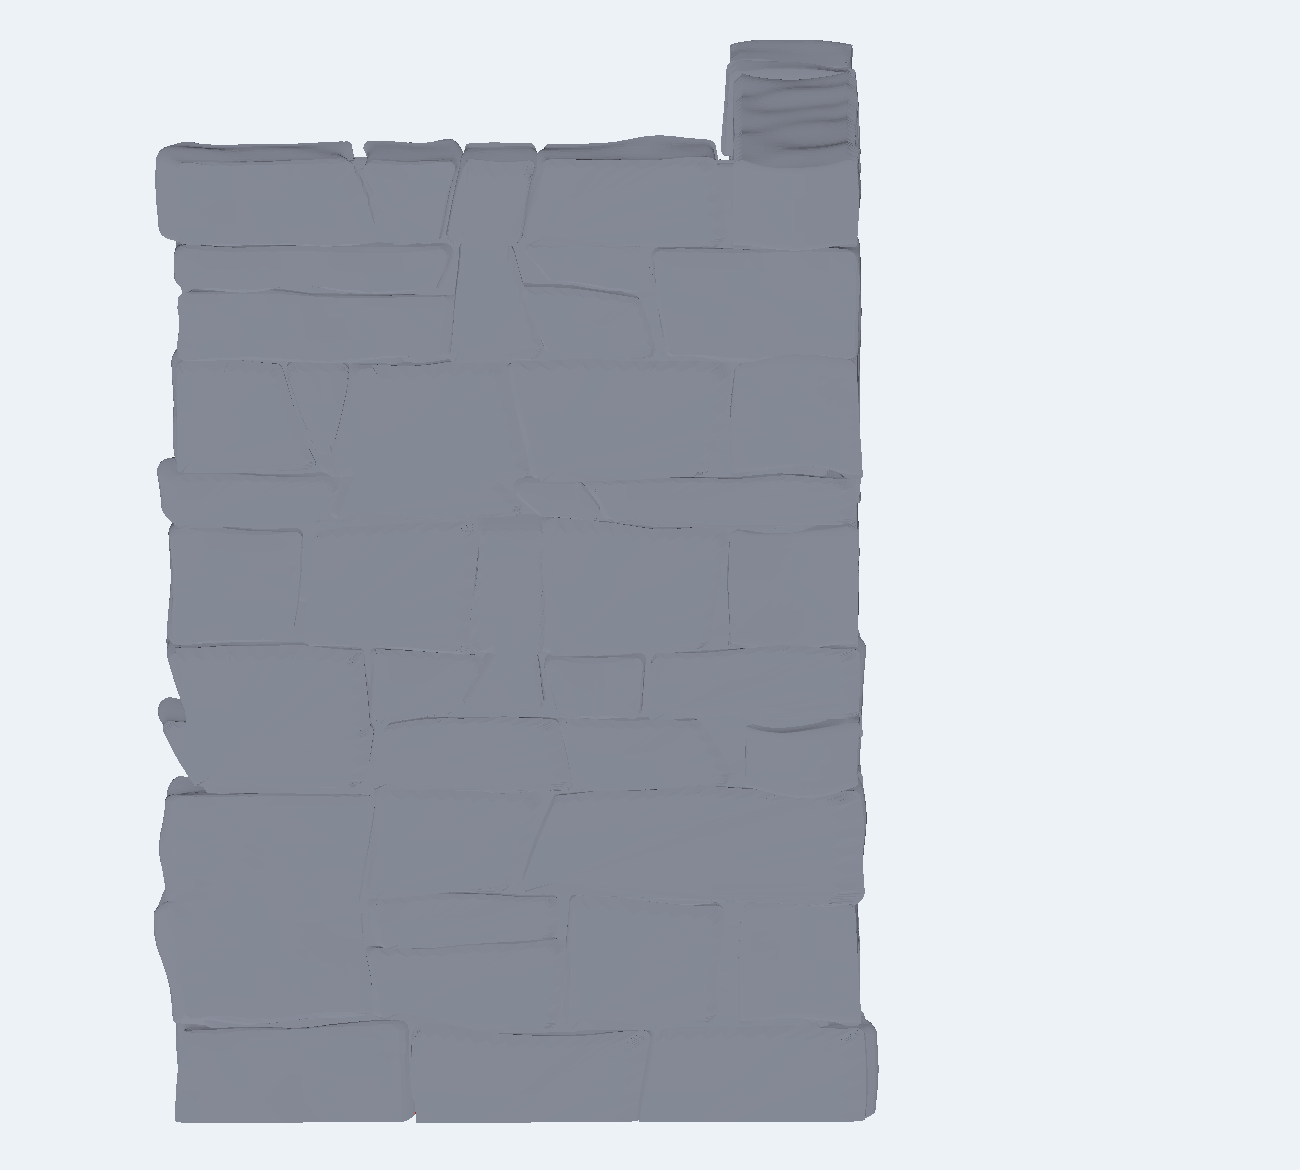
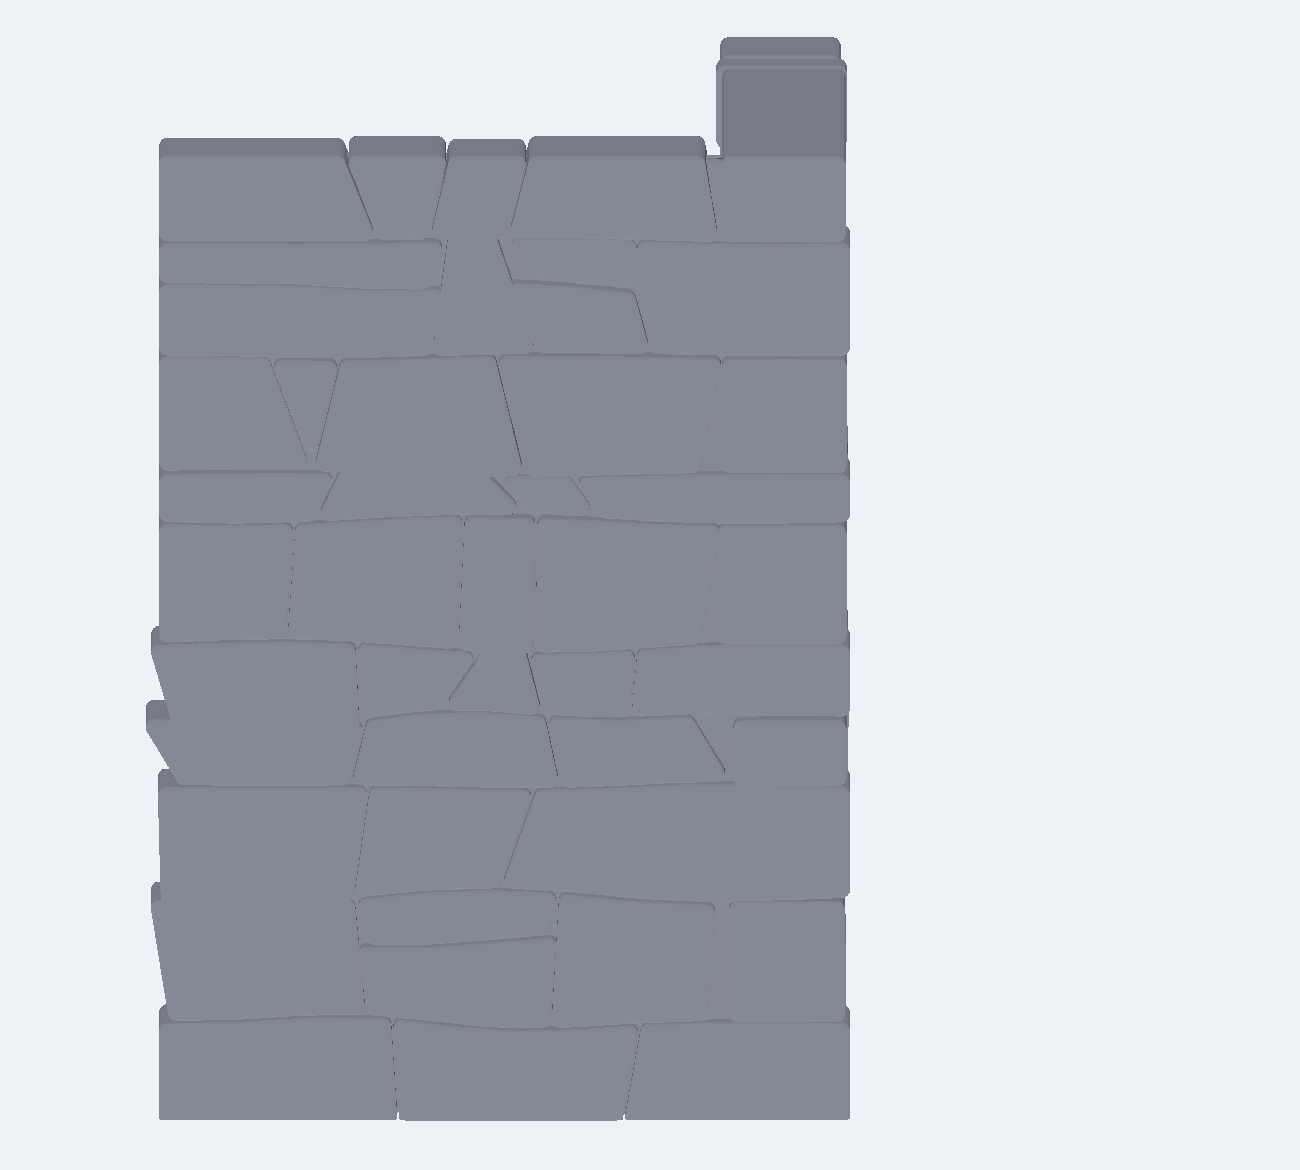
Walls: fieldstone E15 — just the cracks and the roundovers
Shawn (after approving E14 hairline cracks): roundover all corners,
drop the face pillowing.

- belly/apex-drift machinery deleted: stones are straight extruded
  prisms of their crack-bounded outlines
- every edge rounded by construction: outline corners via the 2D
  buffer (as before), face<->side edges via a circular-arc inset over
  the first/last roundover_mm of depth (cosine-spaced arc stations)
- relief_mm default 0 - and the plane-wave fan-streak artifact from
  E12 goes with it; per-stone tone is carried by proudness alone
- half the mesh: 110k faces for the corner tile (was 212k)

Red-mortar diag 0.0000 on all five views.

diff --git a/src/dharmatiles/walls/fieldstone.py b/src/dharmatiles/walls/fieldstone.py
@@ -28,8 +28,9 @@ first**:
    neighbouring stones complement each other exactly, by construction.
 3. A stone's face outline IS the polygon its cracks bound, inset by
    half the crack width (shapely), corners rounded.
-4. The solid is that outline lofted through the wall thickness with a
-   gentle belly (pillowed prism), light broadband relief on top.
+4. The solid is that outline extruded straight through the wall
+   thickness with every edge rounded over (E15: the E12 belly/pillow
+   and relief were dropped — "just the cracks and the roundovers").
 
 Tessellation (fill-all-space), tight uniform cracks, and neighbour
 complementarity therefore hold by construction; the rubble hearting
@@ -57,21 +58,17 @@ _WOBBLE_TAPER_MM  = 12.0          # wobble fades to 0 within this of a
                                   # straight and tight
 _DRIFT_MM         = 2.2           # head joints slant up to ±this across
                                   # their course (staggered, never aligned)
-# Stone body
-_BELLY_FACE_SCALE = (0.93, 0.975) # outline scale at the face plane vs the
-                                  # mid-depth belly: cracks are V-grooves —
-                                  # tight at the belly, slightly open at
-                                  # the face, dark by depth
-_BELLY_EXP        = (0.9, 1.4)    # belly profile exponent
-_APEX_DRIFT_FRAC  = 0.08          # belly apex wanders up to this × the
-                                  # stone size: each face catches its own
-                                  # light without breaking tessellation
-                                  # (whole-stone rotation would open wedges)
+# Stone body (E15: no belly/pillow, no relief — "just the cracks and
+# the roundovers".  Stones are straight extruded prisms; every corner
+# is rounded: outline corners by the 2D buffer, face↔side edges by a
+# circular-arc inset over the first/last roundover_mm of depth)
 _PROUD_MM         = (0.10, 0.50)  # per-stone face recession (both faces)
 _PROUD_DEEP_PROB  = 0.12          # a rare stone sits notably deeper —
 _PROUD_DEEP_MM    = (0.70, 1.10)  # the odd deep stone the references show
-_RING_STEP_MM     = 1.2           # outline resample spacing
-_N_STATIONS       = 7             # loft stations through the thickness
+_RING_STEP_MM     = 1.2           # outline densify spacing
+_ARC_T            = (0.0, 0.29, 0.71, 1.0)   # roundover arc stations
+                                             # (cosine-spaced fractions
+                                             # of the roundover radius)
 # Cell topology
 _THROUGH_FRAC     = 0.20          # fraction of eligible cells merged with
                                   # the cell above into a throughstone
@@ -182,14 +179,14 @@ class FieldstoneWall(CutStoneWall):
                  joint_mm:  float = 0.1,   # physical crack gap (Shawn E14:
                                            # nonzero but hairline).  The
                                            # VISIBLE crack stays wider: the
-                                           # belly taper opens each stone
-                                           # ~0.2–0.5 mm at the face plane,
-                                           # so the face shows a dark
-                                           # V-groove that closes to this
-                                           # gap at mid-depth
+                                           # edge roundover recedes each
+                                           # stone by roundover_mm at the
+                                           # face plane, so the face shows
+                                           # a dark V-groove that closes to
+                                           # this gap at roundover depth
                  reveal_mm: float = 2.8,
                  roundover_mm: float | None = 0.42,
-                 relief_mm:    float | None = 0.10,
+                 relief_mm:    float | None = 0.0,
                  relief_wl:    tuple[float, float] | None = (3.0, 9.0),
                  min_bond_mm:  float = 1.8,
                  **kwargs):
@@ -428,35 +425,35 @@ class FieldstoneWall(CutStoneWall):
         dense = shapely.segmentize(poly, _RING_STEP_MM)
         ring = np.asarray(dense.exterior.coords)[:-1]
         n = len(ring)
-        ctr = np.array([poly.centroid.x, poly.centroid.y])
 
-        # Loft through the thickness with a gentle belly.  No whole-stone
-        # rotation — it would open wedges; per-stone tone comes from the
-        # belly apex drift + proudness instead.
+        # Straight prism through the thickness (E15: pillowing dropped);
+        # face↔side edges get a circular-arc roundover: within the
+        # first/last r of depth the outline insets along its 2D outward
+        # vertex normals by d(e) = r − sqrt(2re − e²).  No whole-stone
+        # rotation — it would open wedges; per-stone tone comes from
+        # proudness alone.
         def recess():
             if brng.random() < _PROUD_DEEP_PROB:
                 return brng.uniform(*_PROUD_DEEP_MM)
             return brng.uniform(*_PROUD_MM)
         y0, y1 = recess(), self.thickness_mm - recess()
-        s_face = brng.uniform(*_BELLY_FACE_SCALE)
-        if cell.is_quoin:
-            s_face = max(s_face, 0.955)
-        pexp = brng.uniform(*_BELLY_EXP)
-        size = outline.max(axis=0) - outline.min(axis=0)
-        apex = brng.uniform(-_APEX_DRIFT_FRAC, _APEX_DRIFT_FRAC, 2) * size
 
-        K = _N_STATIONS
+        tang = np.roll(ring, -1, axis=0) - np.roll(ring, 1, axis=0)
+        nrm = np.column_stack([tang[:, 1], -tang[:, 0]])       # CCW → out
+        nrm /= np.linalg.norm(nrm, axis=1, keepdims=True) + 1e-12
+
+        r3 = self.roundover_mm
+        e_front = [t * r3 for t in _ARC_T]
+        stations = ([y0 + e for e in e_front]
+                    + [(y0 + y1) / 2.0]
+                    + [y1 - e for e in reversed(e_front)])
+        K = len(stations)
         verts = []
-        for k in range(K):
-            u = k / (K - 1.0)
-            belly = np.sin(np.pi * u) ** pexp
-            sk = s_face + (1.0 - s_face) * belly
-            c_k = ctr + apex * belly
-            rk = c_k + (ring - ctr) * sk
-            if cell.is_top:
-                # Crown-flat cap: belly in t only, top stays a plane (R6)
-                rk[:, 1] = ctr[1] + (ring[:, 1] - ctr[1]) * 0.99
-            y = y0 + (y1 - y0) * u
+        for y in stations:
+            e = max(min(y - y0, y1 - y), 0.0)
+            d = r3 - np.sqrt(max(2.0 * r3 * e - e * e, 0.0)) if e < r3 \
+                else 0.0
+            rk = ring - nrm * d
             verts.append(np.column_stack([rk[:, 0],
                                           np.full(n, y), rk[:, 1]]))
         v = np.vstack(verts)
@@ -480,13 +477,10 @@ class FieldstoneWall(CutStoneWall):
         extras, capf = self._cap_triangulation(ring, poly)
         m = len(extras)
         if m:
-            e = ctr + (extras - ctr) * s_face
-            if cell.is_top:
-                e[:, 1] = ctr[1] + (extras[:, 1] - ctr[1]) * 0.99
             verts.append(np.column_stack(
-                [e[:, 0], np.full(m, y0), e[:, 1]]))
+                [extras[:, 0], np.full(m, y0), extras[:, 1]]))
             verts.append(np.column_stack(
-                [e[:, 0], np.full(m, y1), e[:, 1]]))
+                [extras[:, 0], np.full(m, y1), extras[:, 1]]))
         v = np.vstack(verts)
         mapF = np.concatenate([np.arange(n), K * n + np.arange(m)])
         mapB = np.concatenate([(K - 1) * n + np.arange(n),
@@ -504,14 +498,14 @@ class FieldstoneWall(CutStoneWall):
                                    faces=np.vstack(faces), process=False)
         trimesh.repair.fix_normals(body)
 
-        # Uniform subdivision (conforming — splits every edge) for
-        # relief sampling density, broadband relief, THEN light Taubin:
-        # smoothing last softens the plane-wave crests, whose organised
-        # interference pattern reads clearly on flat faces (curved
-        # scatter stones always hid it).  No voxel remesh: the fitted
-        # silhouette must not shrink or soften (the E7 shave lesson).
-        body = body.subdivide()
+        # Optional relief (off by default since E15 — crisp prisms with
+        # roundovers only): subdivide for sampling density, displace,
+        # then light Taubin to soften the plane-wave crests, whose
+        # organised interference pattern reads clearly on flat faces.
+        # No voxel remesh: the fitted silhouette must not shrink or
+        # soften (the E7 shave lesson).
         if self.relief_mm > 0.0:
+            body = body.subdivide()
             disp = self.relief_mm * _relief_field(
                 body.vertices, brng, _RELIEF_WAVES, *self.relief_wl)
             body = trimesh.Trimesh(
@@ -519,7 +513,7 @@ class FieldstoneWall(CutStoneWall):
                           + np.asarray(body.vertex_normals)
                           * disp[:, None]),
                 faces=body.faces, process=False)
-        trimesh.smoothing.filter_taubin(body, iterations=4)
+            trimesh.smoothing.filter_taubin(body, iterations=4)
 
         m = np.eye(4)
         m[:2, 0] = seg.d

diff --git a/docs/design/walls-coursed-masonry.md b/docs/design/walls-coursed-masonry.md
@@ -188,7 +188,8 @@ unioned surface — the DB set-13 signature).
 | E11 | Per-stone recession + gravity pockets + chinkers on the cell-hull chassis (never judged — superseded mid-round). Kept findings: (a) rubble hearting must honour the face setback in **t** too — segment END planes are visible faces (free ends, corner arris), and 0.3 mm-clipped rubble read as a broken pebble column down the arris; (b) no bay cut inside an owned corner cell (+2 mm margin) or a sliver quoin breaks the corner; (c) int key tags, not strings — `_place_block` hashes `cell.key` and str hashes vary per process | superseded by round-8 redirect |
 | E12 | **Approach reset (Shawn round-8: "distinct natural stones, fitting together with tight cracks … stones fitting into all the space; find 10 reference images and look carefully").**  Reference set collected → `docs/reference/walls/fieldstone/README.md`; the images agree: adjacent stones SHARE edge geometry (parallel edges, bulge-fits-notch), stone covers ≥90 % of the face, cracks are thin (~0.3–0.7 mm at scale) and uniform.  Independent per-cell hulls can never produce that complementarity — root cause of E6–E11.  Rebuilt **crack-network-first**: courses/bays give the crack topology; each bed line gets a shared wobble, each head joint a shared slant (both sides evaluate the same cached curve → complementary by construction); stone face outline = its bounded polygon inset joint/2 (shapely) with rounded corners; solid = outline lofted through the thickness with a gentle belly; per-stone tone from belly-apex drift + proudness, NO whole-stone rotation (it would open wedges).  Finishing: subdivide → broadband relief → Taubin; **no blur-remesh** (near-planar faces are marching cubes' terracing case — rendered as radial/banded artifacts) and **no centroid-fan caps** (skinny triangles streak under smooth shading) — caps are Delaunay over ring + interior grid; ring keeps shapely's corner vertices (`segmentize`, not uniform resample — under-sampled 0.42 mm corner arcs banded).  Red-mortar 0.00–0.03 % all five views; ~5 s build (no remesh) | **Shawn: "that's great. I love it"** + one change → E13 |
 | E13 | **Shorter stones** (Shawn: more horizontal cracks): courses 2.8–7.5 (was 3.4–9.6), h-split prob 0.28 at ≥5.5 mm (was 0.18 at ≥6.5), bed wobble amp per sine 0.14–0.32 (was 0.18–0.40 — the thinnest split stones drop to ~2.5 mm and two independent beds must never cross).  Throughstone merges kept at 0.20 for size contrast.  Red 0.00–0.02 % | Shawn: ✓ + next tweak |
-| E14 | **Hairline cracks** (Shawn: nonzero but ~0.1 mm): `joint_mm` 0.5 → 0.1.  The physical gap closes to 0.1 mm at mid-depth; the VISIBLE crack stays a dark V-groove because the belly taper opens each stone ~0.2–0.5 mm at the face plane.  Relief (±0.10) can exceed the 0.05/side inset at mid-depth → occasional invisible belly kisses, which the union fuses (real stones touch; prints fine).  Red 0.0000 all five views | pending Shawn |
+| E14 | **Hairline cracks** (Shawn: nonzero but ~0.1 mm): `joint_mm` 0.5 → 0.1.  The physical gap closes to 0.1 mm at mid-depth; the VISIBLE crack stays a dark V-groove because the belly taper opens each stone ~0.2–0.5 mm at the face plane.  Relief (±0.10) can exceed the 0.05/side inset at mid-depth → occasional invisible belly kisses, which the union fuses (real stones touch; prints fine).  Red 0.0000 all five views | Shawn: "pretty good" + next tweak |
+| E15 | **Just the cracks and the roundovers** (Shawn: drop the face pillowing): belly/apex-drift deleted; stones are straight extruded prisms; every edge rounded — outline corners by the 2D buffer, face↔side edges by a circular-arc inset over the first/last `roundover_mm` of depth (cosine-spaced arc stations); `relief_mm` default 0 (the plane-wave fan-streak artifact went with it); per-stone tone now carried by proudness alone.  Half the mesh (110 k faces per corner tile).  Red 0.0000 all five views | pending Shawn |
 
 Implementation notes: cut-stone blocks finish through `_blur_remesh`
 (σ 0.7) — `subdivide_to_size` leaves T-junctions that break the
